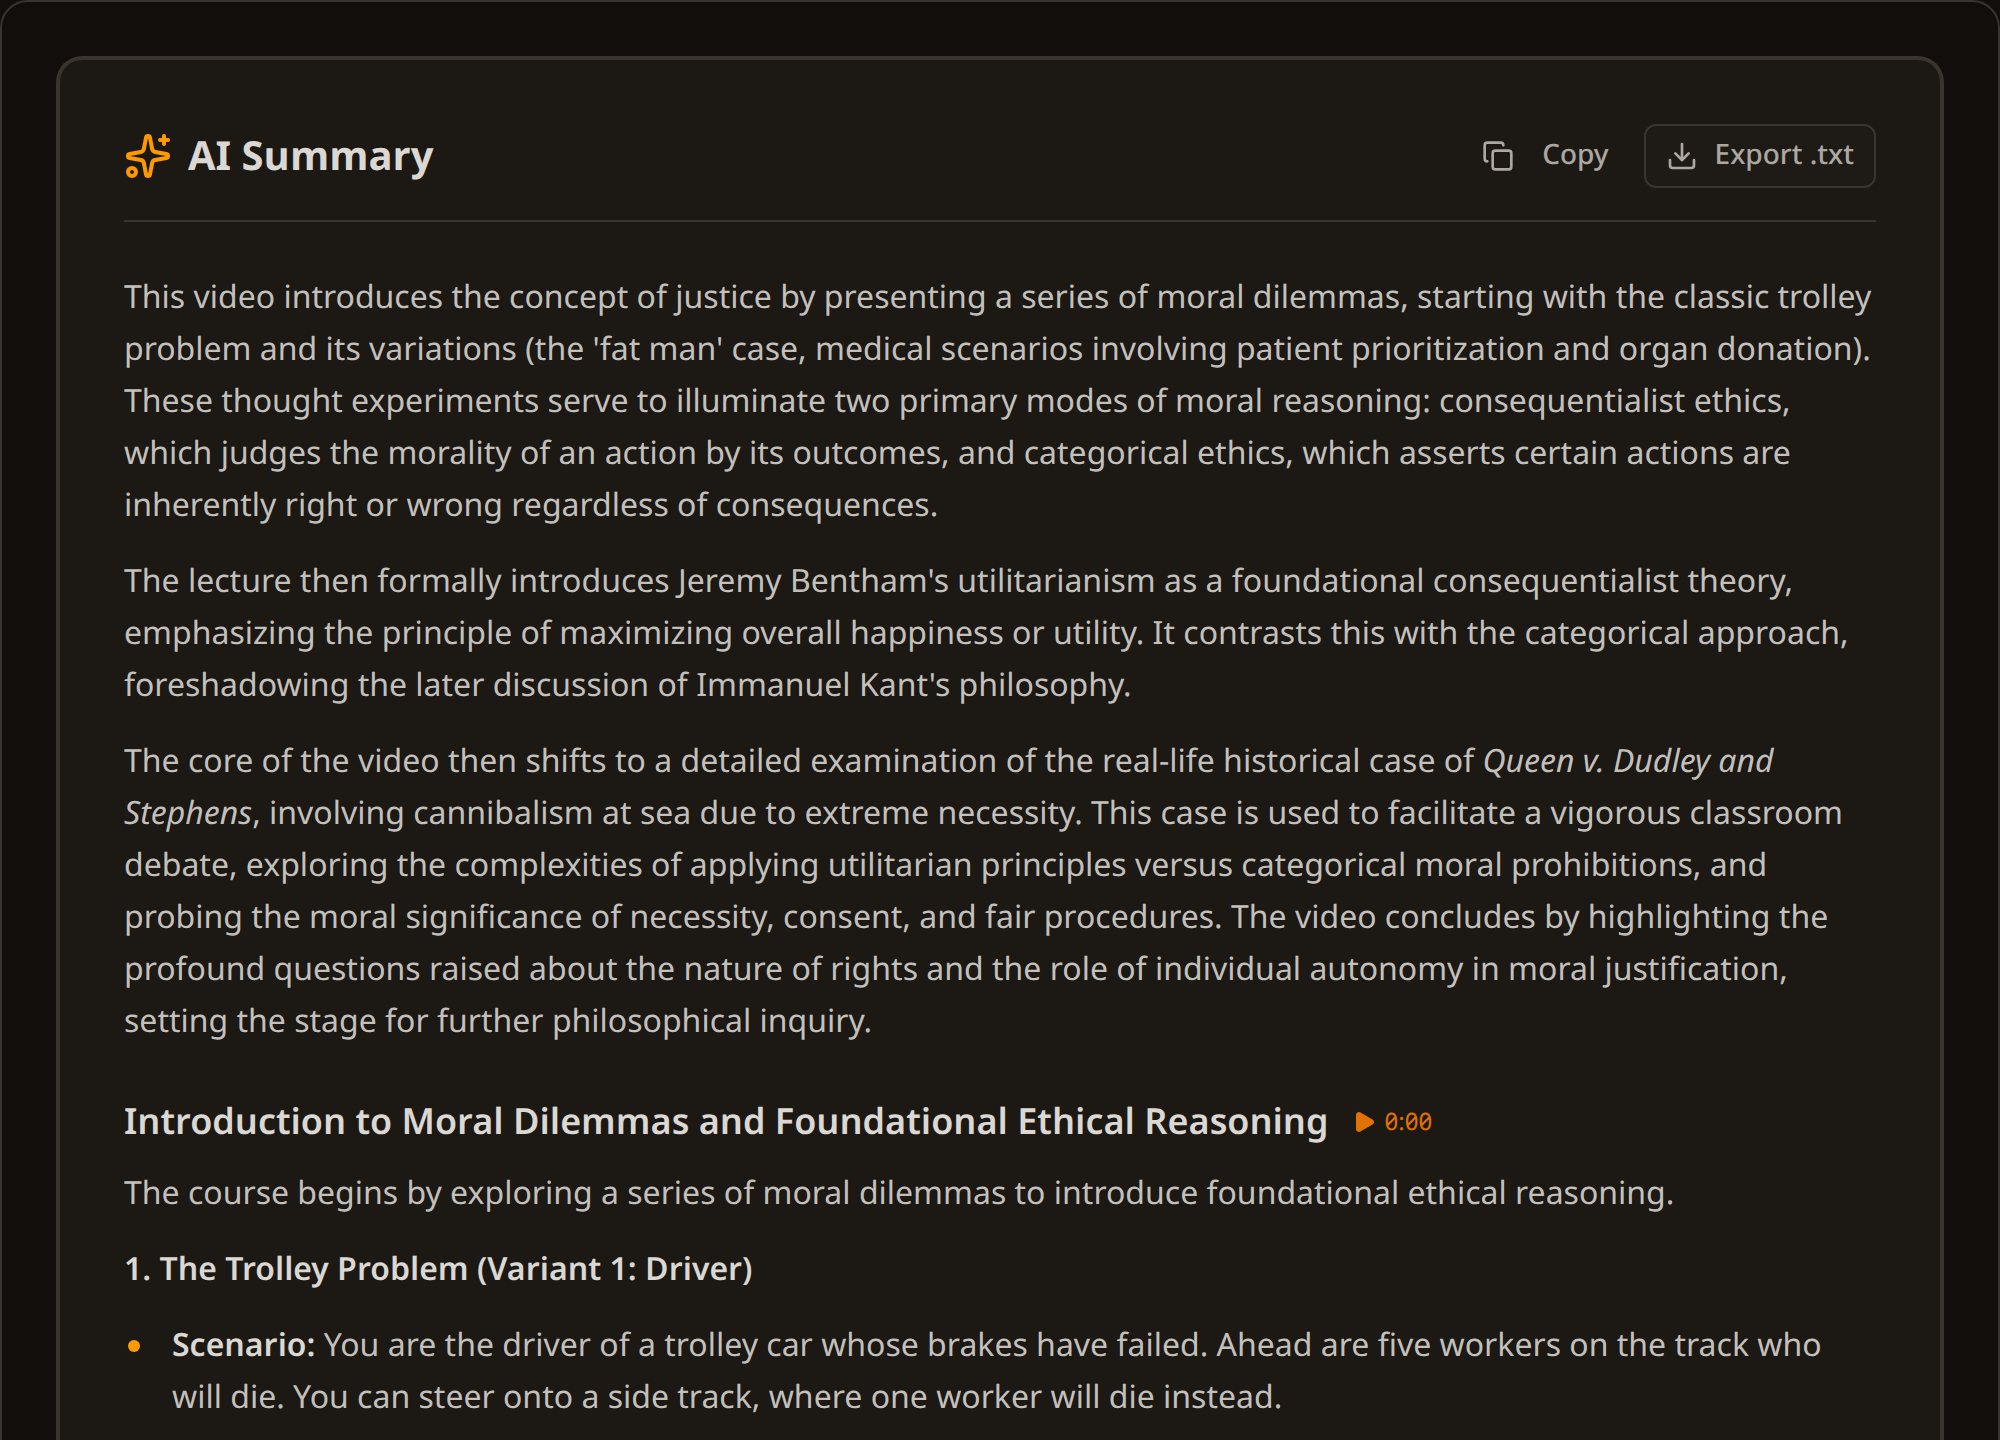
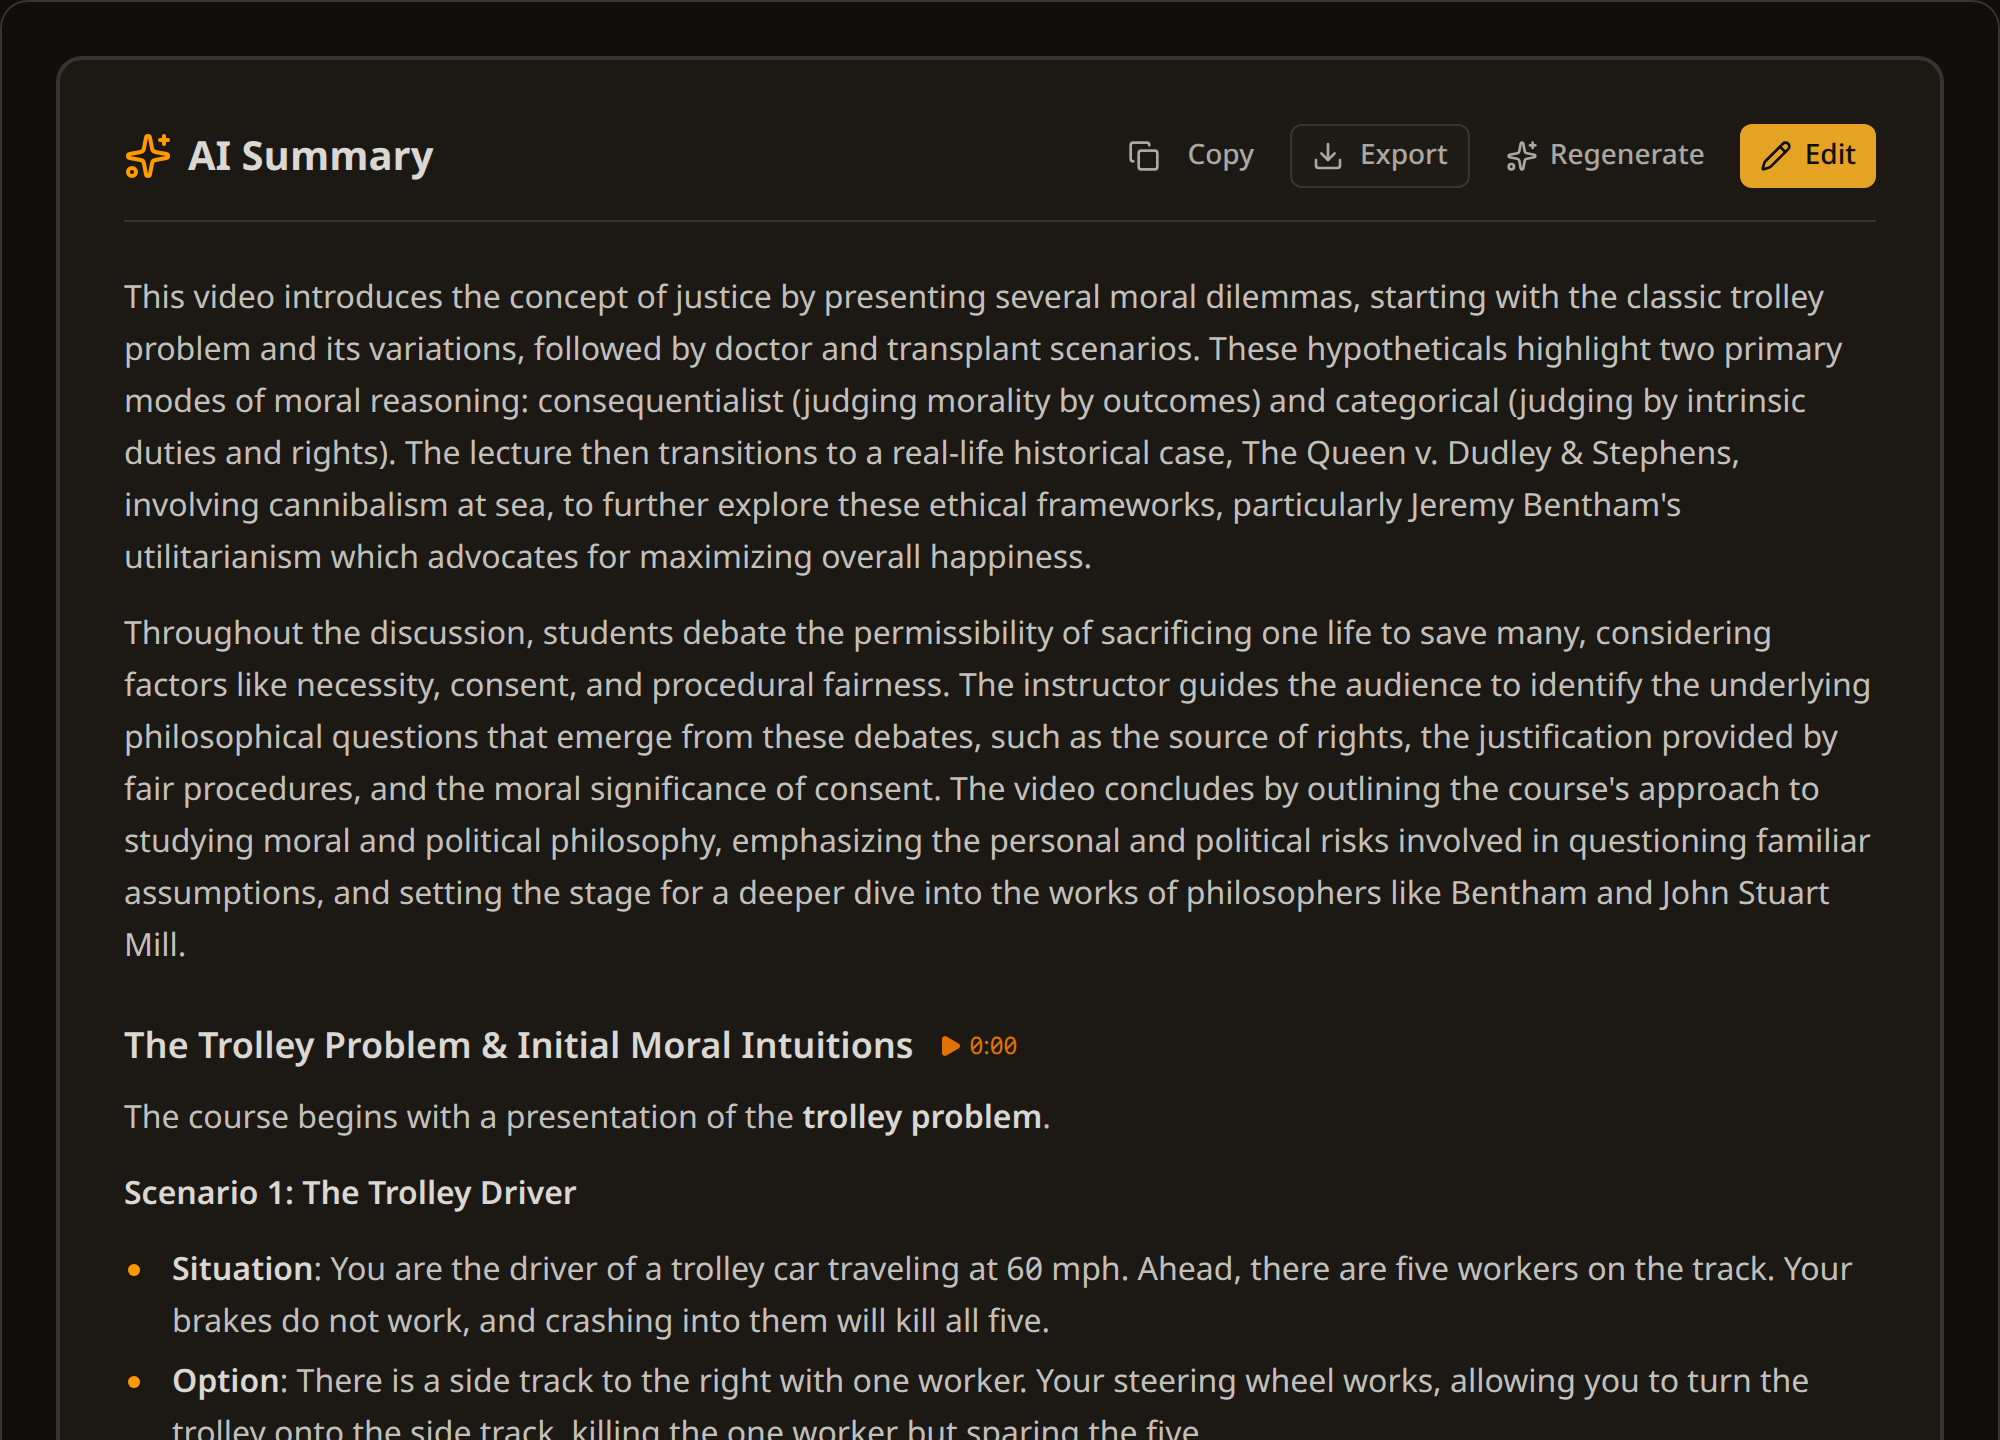
capture(summaries): re-shoot summary-overview after toolbar redesign (Regenerate added)
The AiSummaryView card header now shows Copy · Export · Regenerate · Edit (Regenerate was
added when Summarise/Regenerate moved to the Summary tab). Re-shot light+dark via the capture
machine (test unchanged); updated the manifest caption. All other transcript/summary/edit
screenshots were audited and are still correct (toolbar changes aren't framed by any capture).

diff --git a/docs/wiki/content/screenshot-machine.md b/docs/wiki/content/screenshot-machine.md
@@ -103,7 +103,7 @@ Het onderscheid mag niet verdwijnen: **een gestubde kaart bewijst dat de fronten
 |------|------|
 | **LIVE** (echte UI / echt backend) | `method-choice` (chooser, client-side), `uploader-empty` (Upload-tab leeg, pure UI), `playlist-review` (alleen fetch, job **nooit** gestart), `library-list` (geseed account, meerdere rijen), `transcript-speakers` (transcriptlezer mét sprekerlabels — geseede diarisatie-rij, zie seed-noot) |
 | **LIVE — video-to-text (2026-08-13)** | `video-upload-mp4` (Upload-tab met de test-MP4 toegevoegd → groen geaccepteerd, tab-strip Video/Playlist/**Upload** in beeld; `setInputFiles`, client-side, géén kosten), `video-cost-card` (kostenpaneel: bestandsnaam · ~5 min · AI transcription · **Total 6 credits**, vóór de start), `video-transcript-speakers` (reading-pane van het **echte** Chappelle-transcript, `Speaker A/B`-labels + tijdstempels; hoogte geclipt tot één scherm), `video-subtitles-srt` (het **echte** geëxporteerde `.srt`-bestand als resultaat — genummerde cues, `HH:MM:SS,mmm`-timing, in-budget `Speaker A:`-prefix; het exportmenu zelf blijft te hoog/smal, dus het resultaat i.p.v. het menu). #1/#2 zetten de repo-MP4 client-side (reproduceerbaar, geen credits); #3/#4 lezen de geseede transcriptie (zie Video-to-text-seed-noot) |
-| **LIVE — AI summary (2026-08-24)** | `summary-overview` (de `AiSummaryView`-kaart: "AI Summary"-kop + Copy/Export, de overkoepelende samenvatting en het eerste hoofdstuk met amber `▶`-tijdstempel eronder; via `topShot` geclipt tot één scherm), `summary-chapter` (één hoofdstuk — kop, klikbare tijdstempel, uitgewerkte notities), `summary-edit` (de **bewerkmodus**: tab-strip met "Edited summary" actief + Tiptap-editor met opmaakwerkbalk + hoofdstukken mét tijdstempels; geseed uit de gegenereerde samenvatting, NIET opgeslagen — zie bewerkmodus-noot). Alle drie lezen de **echte** gegenereerde samenvatting op de Justice-fixture (`?tab=summary` / `?tab=summary_edited`, zie AI-summary-seed-noot). **`topShot`** (naast `frameShot`): voor React-gerenderde kaarten die te hoog zijn — een op de kaart gezette `maxHeight` wordt door een re-render weggevaagd (i.t.t. de imperatieve Tiptap-`.ProseMirror`), dus `topShot` bouwt hetzelfde gecentreerde frame op de viewport-oorsprong en gebruikt `page.screenshot({clip})` (vaste viewport-regio) — de hoogte klopt gegarandeerd, de onderrand is een schone afsnede |
+| **LIVE — AI summary (2026-08-24)** | `summary-overview` (de `AiSummaryView`-kaart: "AI Summary"-kop + **Copy · Export · Regenerate · Edit** (Regenerate toegevoegd bij het toolbar-herontwerp 2026-08-25), de overkoepelende samenvatting en het eerste hoofdstuk met amber `▶`-tijdstempel eronder; via `topShot` geclipt tot één scherm), `summary-chapter` (één hoofdstuk — kop, klikbare tijdstempel, uitgewerkte notities), `summary-edit` (de **bewerkmodus**: tab-strip met "Edited summary" actief + Tiptap-editor met opmaakwerkbalk + hoofdstukken mét tijdstempels; geseed uit de gegenereerde samenvatting, NIET opgeslagen — zie bewerkmodus-noot). Alle drie lezen de **echte** gegenereerde samenvatting op de Justice-fixture (`?tab=summary` / `?tab=summary_edited`, zie AI-summary-seed-noot). **`topShot`** (naast `frameShot`): voor React-gerenderde kaarten die te hoog zijn — een op de kaart gezette `maxHeight` wordt door een re-render weggevaagd (i.t.t. de imperatieve Tiptap-`.ProseMirror`), dus `topShot` bouwt hetzelfde gecentreerde frame op de viewport-oorsprong en gebruikt `page.screenshot({clip})` (vaste viewport-regio) — de hoogte klopt gegarandeerd, de onderrand is een schone afsnede |
 | **LIVE — playlist run (2026-08-24, OPT-IN `CAPTURE_PLAYLIST_RUN=1`)** | de drie schermen van een **echte** playlist-extractie, die de machine miste: `playlist-url-input` (het invoerveld + de kostenvoet "First 3 caption videos free · then 1 credit/video · AI 1 credit/min", vóór fetch — geen kosten), `playlist-progress` (de draaiende kaart: kop "Extracting playlist" + teller `N / M · mm:ss` + voortgangsbalk + per-video-rijen met ✓/✗/○ en Auto/AI-badges), `playlist-complete` (de afronding-bon: `CostBreakdown` met "Charged", per-methode-segmenten + refund-regel, **plus de per-code `ErrorCard`s uit de gedeelde copy-map** — ADR-080). **Gated** want het geeft een echt betaald job op `account1` (intern) uit; niet in de default-set. De vastgelegde PNG's komen uit één representatieve run (job `9fbf8ce8`, 10 video's, 1 AI, 3 failures → toont het `proxy_error`- en `no_captions`-vangnet). Fixture: TED-Ed uploads (`UUsooa4yRKGN_zEE8iknghZA`, korte captioned video's). Draai los: `CAPTURE_PLAYLIST_RUN=1 … -g "playlist-run"` |
 | **GESTUBD metadata** | `cost-card-ai` (metadata gestubd → deterministische creditkosten, daarna **Cancel** — nooit bevestigd) |
 | **GESTUBD** (`page.route`) | `progress-downloading`, en de 4 ErrorCards die de docs tonen: `error-no_captions`, `error-youtube_restricted`, `error-bot_detection`, `error-storage_full` |
